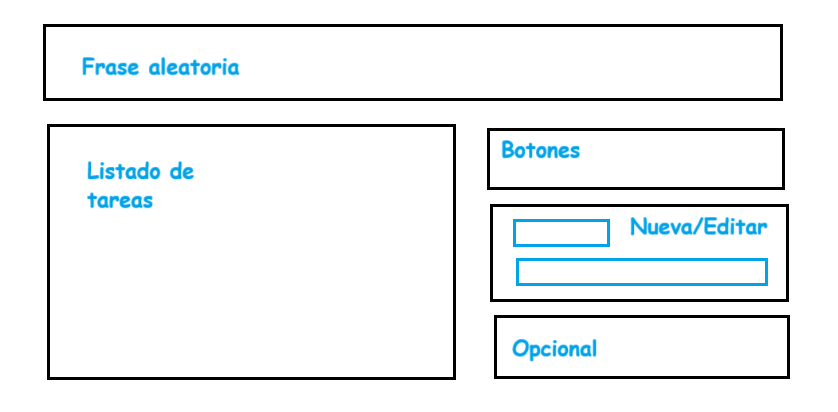
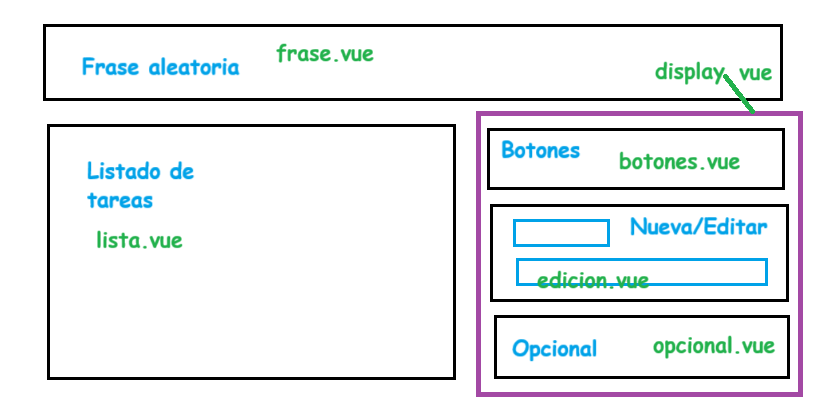
Ajustado el layout al mockup

diff --git a/frontend/src/components/display.vue b/frontend/src/components/display.vue
@@ -1,36 +1,43 @@
 <script>
+import botones from './botones.vue';
+import edicion from './edicion.vue';
+import opcional from './opcional.vue';
 export default{
-    name: "x",
+    name: "componenteDisplay",
     components:{
-
+      botones,
+      edicion,
+      opcional
     },
     data(){
         return {
-            prueba: "Hola"
+            pruebaDisplay: "componenteDisplay"
         }
     },
 
     methods:{
         prueba(){
-            return "Prueba"
+            return this.pruebaDisplay
         }
     }
-    
 }
 </script>
 
 <template>
 
-  <div class="container">
-    <div class="col col-8">
-
+  <div id="bordeExterior">
+    <div>
+        <botones></botones>
     </div>
-    <div class="col col-4">
-      
+    <div>
+      <edicion></edicion>
+    </div>
+    <div>
+      <opcional></opcional>
     </div>
   </div>
 </template>
 
-<style scoped>
-
+<style>
+  #bordeExterior{background-color: rgb(241, 212, 241);border:4px solid purple;}
 </style>

diff --git a/frontend/src/App.vue b/frontend/src/App.vue
@@ -1,10 +1,14 @@
 <script>
 //import HelloWorld from './components/HelloWorld.vue'
-import frase from './components/frase.vue'
-import display from './components/display.vue'
+import frase from './components/frase.vue';
+import lista from './components/lista.vue';
+import display from './components/display.vue';
+
 export default{
   components:{
-    frase
+    frase,
+    lista,
+    display
   }
 }
 
@@ -15,12 +19,22 @@ export default{
 <header>
   <frase></frase>
 </header> 
-<p>Hola</p>
+<div class="container">
+  <div class="row">
+    <div class="col col-8">
+        <lista></lista>
+    </div>
+    <div class="col col-4">
+      <display></display>
+    </div>
+  </div>
+</div>
 </template>
 
 <style scoped>
   header{
     color:black;
+    margin-bottom: 20px;
   }
 
 

diff --git a/frontend/src/components/botones.vue b/frontend/src/components/botones.vue
@@ -1,20 +1,17 @@
 <script>
 export default{
-    name: "x",
+    name: "componenteBotones",
     components:{
 
     },
     data(){
         return {
-            prueba: "Hola"
+            pruebaBotones: "componenteBotones"
         }
     },
-    props:[
-        uno
-    ],
     methods:{
         prueba(){
-            return "Prueba"
+            return this.pruebaBotones
         }
     }
     
@@ -22,9 +19,11 @@ export default{
 </script>
 
 <template>
- 
+    <div>
+        <button class="btn btn-primary"> {{ pruebaBotones }}</button>
+    </div>
 </template>
 
 <style scoped>
-
+    div{background-color: rgb(221, 249, 249);border:1px solid blue;}
 </style>

diff --git a/frontend/src/components/edicion.vue b/frontend/src/components/edicion.vue
@@ -1,20 +1,17 @@
 <script>
 export default{
-    name: "x",
+    name: "componenteEdicion",
     components:{
 
     },
     data(){
         return {
-            prueba: "Hola"
+            pruebaEdicion: "componenteEdicion"
         }
     },
-    props:[
-        uno
-    ],
     methods:{
         prueba(){
-            return "Prueba"
+            return this.pruebaEdicion
         }
     }
     
@@ -22,9 +19,12 @@ export default{
 </script>
 
 <template>
-
+    <div>
+        {{ pruebaEdicion }}
+        <input type="text">
+    </div>
 </template>
 
 <style scoped>
-
+    div{background-color: rgb(221, 249, 249);border:1px solid blue;}
 </style>

diff --git a/frontend/src/components/frase.vue b/frontend/src/components/frase.vue
@@ -1,18 +1,18 @@
 <script>
 export default{
-    name: "x",
+    name: "componenteFrase",
     components:{
 
     },
     data(){
         return {
-            prueba: "Hola"
+            pruebaFrase: "componenteFrase"
         }
     },
 
     methods:{
         prueba(){
-            return "Prueba"
+            return this.pruebaFrase
         }
     }
     
@@ -20,9 +20,12 @@ export default{
 </script>
 
 <template>
- <p>{{prueba}}</p>
+ <div>{{pruebaFrase}}</div>
+ <div class="container">
+
+ </div>
 </template>
 
 <style scoped>
-p{color:black}
+    div{background-color: rgb(249, 233, 215);border:1px solid orange;}
 </style>

diff --git a/frontend/src/components/opcional.vue b/frontend/src/components/opcional.vue
@@ -1,20 +1,17 @@
 <script>
 export default{
-    name: "x",
+    name: "componenteOpcional",
     components:{
 
     },
     data(){
         return {
-            prueba: "Hola"
+            pruebaOpcional: "componenteOpcional"
         }
     },
-    props:[
-        uno
-    ],
     methods:{
         prueba(){
-            return "Prueba"
+            return this.pruebaOpcional
         }
     }
     
@@ -22,9 +19,9 @@ export default{
 </script>
 
 <template>
- 
+ <div>{{pruebaOpcional}}</div>
 </template>
 
 <style scoped>
-
+    div{background-color: rgb(221, 249, 249);border:1px solid blue;}
 </style>

diff --git a/frontend/src/components/lista.vue b/frontend/src/components/lista.vue
@@ -1,20 +1,17 @@
 <script>
 export default{
-    name: "x",
+    name: "componenteLista",
     components:{
 
     },
     data(){
         return {
-            prueba: "Hola"
+            pruebaLista: "componenteLista"
         }
     },
-    props:[
-        uno
-    ],
     methods:{
         prueba(){
-            return "Prueba"
+            return this.pruebaLista
         }
     }
     
@@ -22,9 +19,10 @@ export default{
 </script>
 
 <template>
- 
+    <div> {{ pruebaLista }}</div>
+
 </template>
 
 <style scoped>
-
+    div{background-color: rgb(234, 248, 224);border:1px solid #339900;}
 </style>
